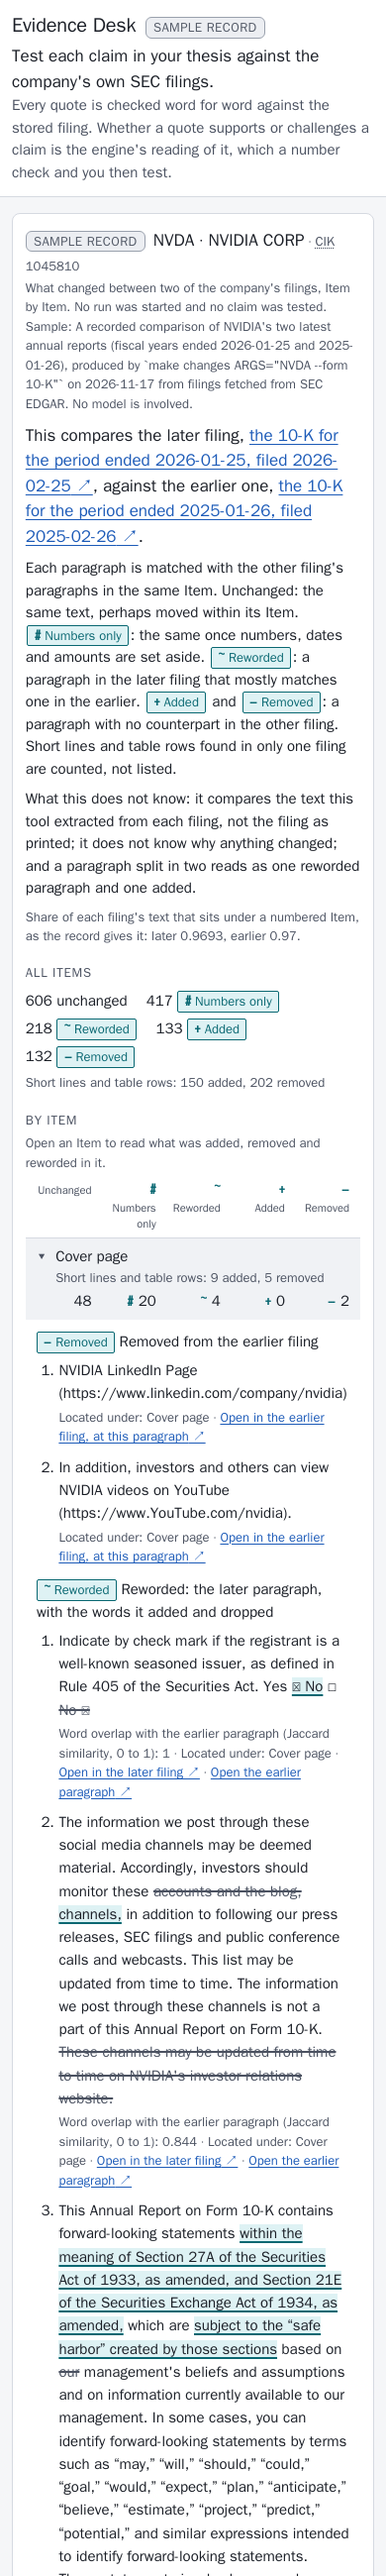
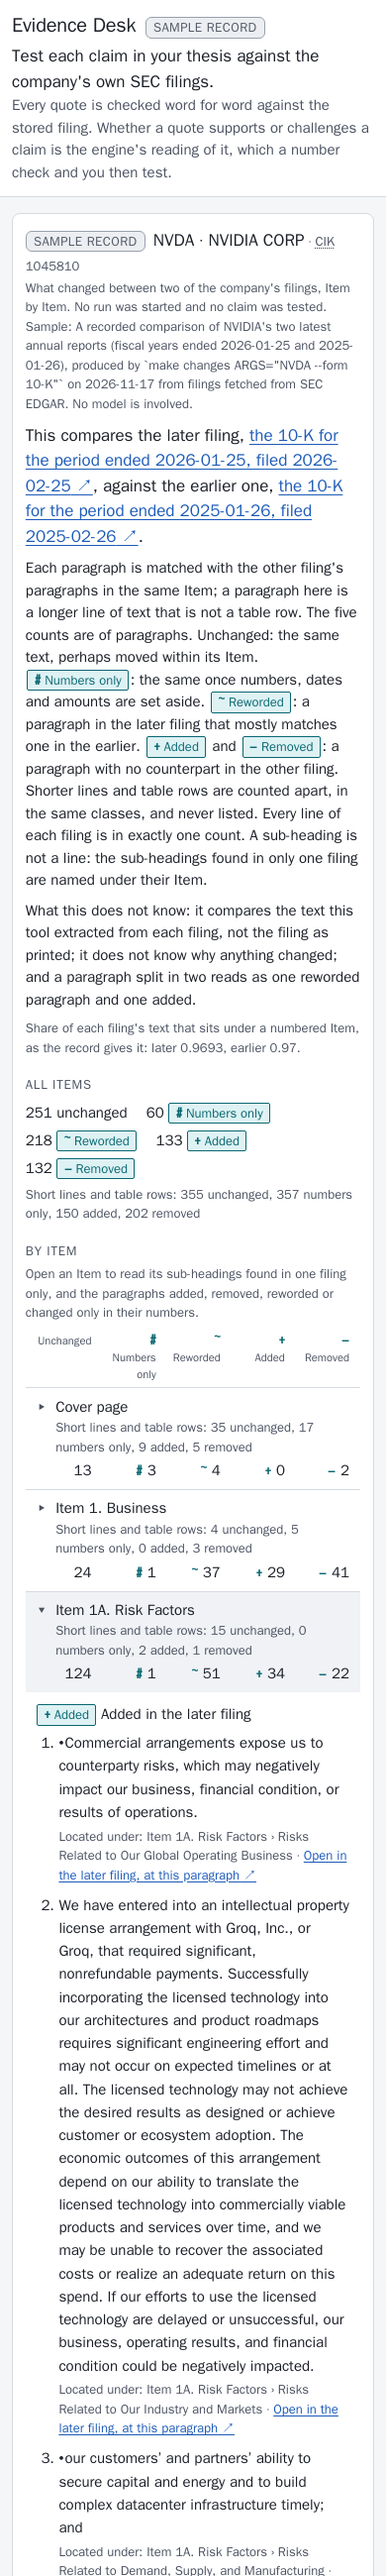
Show the corrected comparison on the page
All nine counts, each labelled as what it counts; the sub-headings found
in only one filing; a list of paragraphs whose figures alone moved, drawn
like the reworded ones; link words that say whether a link opens the
filing at the paragraph or only the filing. Item 1A opens first. At
phone width the column headings no longer break inside a word. 75
assertions on the rendered page.

Changed region(s): [[0.0615, 0.2181, 0.9231, 1.0]]

diff --git a/Capstone/evidence_desk/src/web/app.js b/Capstone/evidence_desk/src/web/app.js
@@ -968,7 +968,7 @@ function renderChanges(record, sampleNote) {
     h(
       "p",
       { class: "changes-explain" },
-      "Each paragraph is matched with the other filing's paragraphs in the same Item. Unchanged: the same text, perhaps moved within its Item. ",
+      "Each paragraph is matched with the other filing's paragraphs in the same Item; a paragraph here is a longer line of text that is not a table row. The five counts are of paragraphs. Unchanged: the same text, perhaps moved within its Item. ",
       changeMark("numbers_only"),
       ": the same once numbers, dates and amounts are set aside. ",
       changeMark("reworded"),
@@ -976,7 +976,7 @@ function renderChanges(record, sampleNote) {
       changeMark("added"),
       " and ",
       changeMark("removed"),
-      ": a paragraph with no counterpart in the other filing. Short lines and table rows found in only one filing are counted, not listed.",
+      ": a paragraph with no counterpart in the other filing. Shorter lines and table rows are counted apart, in the same classes, and never listed. Every line of each filing is in exactly one count. A sub-heading is not a line: the sub-headings found in only one filing are named under their Item.",
     ),
     h(
       "p",
@@ -1004,20 +1004,20 @@ function renderChanges(record, sampleNote) {
         { class: "chg-totals" },
         h("li", null, total("unchanged"), " unchanged"),
         ["numbers_only", "reworded", "added", "removed"].map((kind) => h("li", null, total(kind), " ", changeMark(kind))),
-        h("li", { class: "chg-minor" }, "Short lines and table rows: ", total("minor_added"), " added, ", total("minor_removed"), " removed"),
+        h("li", { class: "chg-minor" }, minorLine((field) => total(field))),
       ),
     ),
   );
   const items = record.items;
-  // The first Item that lists any paragraph starts open, so a reader sees one example of each list.
-  const listed = (item) => list(item.added_paragraphs).length + list(item.removed_paragraphs).length + list(item.reworded_paragraphs).length > 0;
-  const firstOpen = items.findIndex(listed);
+  // Item 1A starts open (the Item people read first); without it, the first Item that lists anything.
+  const riskFactors = items.findIndex((item) => str(item.item).startsWith("Item 1A"));
+  const firstOpen = riskFactors >= 0 ? riskFactors : items.findIndex(hasListed);
   parts.push(
     h(
       "section",
       { class: "block", "aria-labelledby": "chg-items-title" },
       h("h3", { class: "block-title", id: "chg-items-title", text: "By Item" }),
-      h("p", { class: "hint", text: "Open an Item to read what was added, removed and reworded in it." }),
+      h("p", { class: "hint", text: "Open an Item to read its sub-headings found in one filing only, and the paragraphs added, removed, reworded or changed only in their numbers." }),
       h(
         "div",
         { class: "chg-grid chg-header", "aria-hidden": "true" },
@@ -1031,7 +1031,7 @@ function renderChanges(record, sampleNote) {
   els.changesBody.replaceChildren(...parts);
 }
 
-/** One Item: its five counts as a row, opening to its three lists. */
+/** One Item: its five paragraph counts and four short-line counts as a row, opening to its lists. */
 function renderChangeItem(item, index, open = false) {
   const presence = { later: "Only in the later filing", earlier: "Only in the earlier filing" }[item.present_in] ?? "";
   const word = (field) => (field === "unchanged" ? "unchanged" : CHANGE_MARK[field][1].toLowerCase());
@@ -1051,35 +1051,74 @@ function renderChangeItem(item, index, open = false) {
       { class: "chg-name" },
       h("span", { class: "chg-item-title", text: str(item.item) }),
       presence ? h("span", { class: "chg-presence", "data-present-in": item.present_in, text: presence }) : "",
-      h(
-        "span",
-        { class: "chg-minor" },
-        "Short lines and table rows: ",
-        h("span", { "data-chg-field": "minor_added", text: num(item.minor_added) }),
-        " added, ",
-        h("span", { "data-chg-field": "minor_removed", text: num(item.minor_removed) }),
-        " removed",
-      ),
+      h("span", { class: "chg-minor" }, minorLine((field) => h("span", { "data-chg-field": field, text: num(item[field]) }))),
     ),
     CHANGE_COUNTS.map(cell),
   );
   return h("details", { class: "chg-item", "data-item-index": index, "data-item": str(item.item), open }, summary, renderChangeLists(item));
 }
 
-/** An Item's added, removed and reworded paragraphs, each list with its truncation as the record states it. */
+/** "Short lines and table rows: A unchanged, B numbers only, C added, D removed"; `count` draws each number. */
+function minorLine(count) {
+  return [
+    "Short lines and table rows: ",
+    count("minor_unchanged"),
+    " unchanged, ",
+    count("minor_numbers_only"),
+    " numbers only, ",
+    count("minor_added"),
+    " added, ",
+    count("minor_removed"),
+    " removed",
+  ];
+}
+
+/** Whether an Item lists anything: a paragraph, a pair, or a sub-heading in only one filing. */
+function hasListed(item) {
+  return ["added_paragraphs", "removed_paragraphs", "reworded_paragraphs", "numbers_only_paragraphs", "subheadings_added", "subheadings_removed"].some(
+    (key) => list(item[key]).length > 0,
+  );
+}
+
+/**
+ * The words on a link into one of the two filings, by the record's `link_kind`: at the
+ * paragraph, at its first line, or the filing only. A record without `link_kind` keeps
+ * "at this paragraph". The run view says the same of a quote (`LINK_WORDS`).
+ */
+function changeLinkWords(paragraph, side) {
+  const kind = str(paragraph?.link_kind);
+  if (kind === "first-line") return `Open in the ${side} filing, at its first line`;
+  if (kind === "document") return `Open the ${side} filing (the link opens the filing only: this text cannot be located in it)`;
+  return `Open in the ${side} filing, at this paragraph`;
+}
+
+/** An Item's sub-headings found in one filing only, then its four lists, each with its truncation as the record states it. */
 function renderChangeLists(item) {
   const body = h("div", { class: "chg-lists" });
+  if (!hasListed(item)) {
+    body.append(h("p", { class: "muted", text: "No paragraph or sub-heading was added, removed, reworded or changed in its numbers in this Item." }));
+    return body;
+  }
+  const subheadings = (kind, side, title, names) =>
+    h(
+      "section",
+      { class: "chg-list chg-subs", "data-subheadings": side },
+      h("h4", { class: "chg-list-title" }, changeMark(kind), ` ${title}`),
+      h("ul", { class: "chg-sub-list" }, names.map((name) => h("li", { text: String(name) }))),
+    );
+  const subsAdded = list(item.subheadings_added);
+  const subsRemoved = list(item.subheadings_removed);
+  if (subsAdded.length) body.append(subheadings("added", "later", "Sub-headings only in the later filing", subsAdded));
+  if (subsRemoved.length) body.append(subheadings("removed", "earlier", "Sub-headings only in the earlier filing", subsRemoved));
   const added = list(item.added_paragraphs);
   const removed = list(item.removed_paragraphs);
   const reworded = list(item.reworded_paragraphs);
-  if (!added.length && !removed.length && !reworded.length) {
-    body.append(h("p", { class: "muted", text: "No paragraph was added, removed or reworded in this Item." }));
-    return body;
-  }
+  const numbersOnly = list(item.numbers_only_paragraphs);
   const cut = item.truncated ?? {};
-  if (added.length) body.append(changeList("added", "Added in the later filing", added, item.added, cut.added, (p) => paragraphEntry(p, "Open in the later filing, at this paragraph")));
-  if (removed.length) body.append(changeList("removed", "Removed from the earlier filing", removed, item.removed, cut.removed, (p) => paragraphEntry(p, "Open in the earlier filing, at this paragraph")));
-  if (reworded.length) body.append(changeList("reworded", "Reworded: the later paragraph, with the words it added and dropped", reworded, item.reworded, cut.reworded, rewordedEntry));
+  if (added.length) body.append(changeList("added", "Added in the later filing", added, item.added, cut.added, (p) => paragraphEntry(p, "later")));
+  if (removed.length) body.append(changeList("removed", "Removed from the earlier filing", removed, item.removed, cut.removed, (p) => paragraphEntry(p, "earlier")));
+  if (reworded.length) body.append(changeList("reworded", "Reworded: the later paragraph, with the words it added and dropped", reworded, item.reworded, cut.reworded, (pair) => pairEntry(pair, true)));
+  if (numbersOnly.length) body.append(changeList("numbers_only", "Numbers only: the same words, the figures that moved", numbersOnly, item.numbers_only, cut.numbers_only, (pair) => pairEntry(pair, false)));
   return body;
 }
 
@@ -1098,18 +1137,28 @@ function changeList(kind, title, entries, count, truncated, draw) {
   );
 }
 
-/** An added or removed paragraph: its text, where it sits, and a link into its filing. */
-function paragraphEntry(paragraph, linkText) {
+/** An added or removed paragraph: its text, where it sits, and a link into its filing ("later" or "earlier"). */
+function paragraphEntry(paragraph, side) {
   return h(
     "li",
     null,
     h("p", { class: "chg-text", text: str(paragraph.text) }),
-    h("p", { class: "chg-where" }, h("span", { class: "label", text: "Located under: " }), str(paragraph.locator) || "location not recorded", " · ", externalLink(paragraph.link, linkText)),
+    h(
+      "p",
+      { class: "chg-where" },
+      h("span", { class: "label", text: "Located under: " }),
+      str(paragraph.locator) || "location not recorded",
+      " · ",
+      externalLink(paragraph.link, changeLinkWords(paragraph, side)),
+    ),
   );
 }
 
-/** A reworded pair: the later paragraph drawn from `segments`, in reading order, then the record's similarity. */
-function rewordedEntry(pair) {
+/**
+ * A reworded or numbers-only pair: the later paragraph drawn from `segments`, in reading
+ * order, then (for a reworded pair) the record's similarity, and links into both filings.
+ */
+function pairEntry(pair, withSimilarity) {
   const quote = h("blockquote", { class: "chg-reworded" });
   list(pair.segments).forEach((segment, position) => {
     if (position > 0) quote.append(" ");
@@ -1125,15 +1174,19 @@ function rewordedEntry(pair) {
     h(
       "p",
       { class: "chg-where" },
-      h("span", { class: "label", text: "Word overlap with the earlier paragraph (Jaccard similarity, 0 to 1): " }),
-      h("span", { "data-similarity": "", text: Number.isFinite(pair.similarity) ? String(pair.similarity) : "not recorded" }),
-      " · ",
+      withSimilarity
+        ? [
+            h("span", { class: "label", text: "Word overlap with the earlier paragraph (Jaccard similarity of the word sets, common words and figures left out, so 1 does not mean identical; 0 to 1): " }),
+            h("span", { "data-similarity": "", text: Number.isFinite(pair.similarity) ? String(pair.similarity) : "not recorded" }),
+            " · ",
+          ]
+        : "",
       h("span", { class: "label", text: "Located under: " }),
       str(pair.after?.locator) || "location not recorded",
       " · ",
-      externalLink(pair.after?.link, "Open in the later filing"),
+      externalLink(pair.after?.link, changeLinkWords(pair.after, "later")),
       " · ",
-      externalLink(pair.before?.link, "Open the earlier paragraph"),
+      externalLink(pair.before?.link, changeLinkWords(pair.before, "earlier")),
     ),
   );
 }

diff --git a/Capstone/evidence_desk/src/web/index.html b/Capstone/evidence_desk/src/web/index.html
@@ -149,10 +149,10 @@
         <details id="changes-legend" class="legend" open>
           <summary>How to read this comparison</summary>
           <dl class="legend-list">
-            <div><dt><span class="chg-mark c-numbers_only"><span class="glyph g-chg" aria-hidden="true">#</span><span class="chg-label">Numbers only</span></span></dt><dd>The same paragraph once numbers, dates and amounts are set aside: only those changed.</dd></div>
+            <div><dt><span class="chg-mark c-numbers_only"><span class="glyph g-chg" aria-hidden="true">#</span><span class="chg-label">Numbers only</span></span></dt><dd>The same paragraph once numbers, dates and amounts are set aside: only those changed. Its list strikes through the earlier figures and underlines the later ones.</dd></div>
             <div><dt><span class="chg-mark c-reworded"><span class="glyph g-chg" aria-hidden="true">~</span><span class="chg-label">Reworded</span></span></dt><dd>A paragraph in the later filing that mostly matches one in the earlier filing.</dd></div>
-            <div><dt><span class="chg-mark c-added"><span class="glyph g-chg" aria-hidden="true">+</span><span class="chg-label">Added</span></span></dt><dd>A paragraph in the later filing with no counterpart in the earlier one.</dd></div>
-            <div><dt><span class="chg-mark c-removed"><span class="glyph g-chg" aria-hidden="true">−</span><span class="chg-label">Removed</span></span></dt><dd>A paragraph in the earlier filing with no counterpart in the later one.</dd></div>
+            <div><dt><span class="chg-mark c-added"><span class="glyph g-chg" aria-hidden="true">+</span><span class="chg-label">Added</span></span></dt><dd>A paragraph in the later filing with no counterpart in the earlier one; under an Item, also a sub-heading found only in the later filing.</dd></div>
+            <div><dt><span class="chg-mark c-removed"><span class="glyph g-chg" aria-hidden="true">−</span><span class="chg-label">Removed</span></span></dt><dd>A paragraph in the earlier filing with no counterpart in the later one; under an Item, also a sub-heading found only in the earlier filing.</dd></div>
             <div><dt><ins class="seg seg-add">added words</ins></dt><dd>Inside a reworded paragraph: words only the later filing has, underlined.</dd></div>
             <div><dt><del class="seg seg-del">removed words</del></dt><dd>Inside a reworded paragraph: words only the earlier filing had, struck through where they stood.</dd></div>
             <div><dt><span class="mark-limit"><span class="glyph g-limit" aria-hidden="true">▲</span> Limit</span></dt><dd>Something limits this comparison.</dd></div>

diff --git a/Capstone/evidence_desk/src/web/styles.css b/Capstone/evidence_desk/src/web/styles.css
@@ -913,6 +913,8 @@ del.seg-del { text-decoration-line: line-through; text-decoration-color: var(--i
 
 .chg-totals { list-style: none; margin: 0; padding: 0; display: flex; flex-wrap: wrap; gap: 0.35rem 1.2rem; align-items: baseline; }
 .chg-totals li { white-space: nowrap; }
+/* The short-lines line is a sentence of four counts: it takes its own row and may wrap. */
+.chg-totals li.chg-minor { flex-basis: 100%; white-space: normal; }
 .chg-minor { font-size: var(--step--1); color: var(--ink-2); }
 
 .chg-grid {
@@ -944,6 +946,8 @@ del.seg-del { text-decoration-line: line-through; text-decoration-color: var(--i
 .chg-text, .chg-reworded { margin: 0; font-family: var(--font-quote); line-height: 1.55; }
 .chg-where { margin: 0.15rem 0 0; font-size: var(--step--1); color: var(--ink-2); }
 .chg-where .ext { font-weight: 600; }
+.chg-sub-list { margin: 0; padding-left: 1.4rem; }
+.chg-sub-list > li + li { margin-top: 0.15rem; }
 
 @media (max-width: 720px) {
   .chg-grid { grid-template-columns: repeat(5, minmax(0, 1fr)); }

diff --git a/Capstone/evidence_desk/uitests/test_changes_dom.py b/Capstone/evidence_desk/uitests/test_changes_dom.py
@@ -28,9 +28,17 @@ CHANGE_GLYPHS = {"numbers_only": "#", "reworded": "~", "added": "+", "removed": 
 CHANGE_LABELS = {"numbers_only": "Numbers only", "reworded": "Reworded", "added": "Added", "removed": "Removed"}
 # Every mark the run pages already use: the change family must take none of them.
 OTHER_GLYPHS = {"✓", "✕", "±", "?", "∅", "•", "▲", "✎", "◎", "◐", "!", "▣", "☒", "☐"}
+# The five paragraph counts, then the four for short lines and table rows: every line of each
+# filing is in exactly one of them.
 COUNTS = ("unchanged", "numbers_only", "reworded", "added", "removed")
-MINOR = ("minor_added", "minor_removed")
-LISTS = {"added": "added_paragraphs", "removed": "removed_paragraphs", "reworded": "reworded_paragraphs"}
+MINOR = ("minor_unchanged", "minor_numbers_only", "minor_added", "minor_removed")
+LISTS = {
+    "added": "added_paragraphs",
+    "removed": "removed_paragraphs",
+    "reworded": "reworded_paragraphs",
+    "numbers_only": "numbers_only_paragraphs",
+}
+SUBHEADINGS = {"later": ("subheadings_added", "added"), "earlier": ("subheadings_removed", "removed")}
 PLACEHOLDERS = ("undefined", "NaN", "[object Object]", "null")
 
 
@@ -102,6 +110,9 @@ def test_the_message_comes_first_and_names_both_filings() -> None:
     body = text(soup.select_one("#changes-body"))
     assert body.index(text(lead)) < body.index("All Items"), "the totals come after the message"
     assert "does not know why anything changed" in words(soup.select_one("#changes-body .changes-unknown"))
+    explained = words(soup.select_one("#changes-body .changes-explain"))
+    for phrase in ("The five counts are of paragraphs", "counted apart", "never listed", "exactly one count", "A sub-heading is not a line"):
+        assert phrase in explained, f"the explanation does not say {phrase!r}"
     head = soup.select_one("#changes-head")
     assert head.select_one(".page-tag") is not None and "Sample record" in text(head.select_one(".page-tag"))
     assert sample()["note"] in words(head)
@@ -158,17 +169,103 @@ def test_a_reworded_paragraph_marks_added_and_removed_words() -> None:
         pytest.fail("the record has no reworded paragraph with both added and removed words")
     pair = pairs[position]
     entries = row.select('.chg-list[data-list="reworded"] ol.chg-paras > li')
-    quote = entries[position].select_one("blockquote.chg-reworded")
-    assert quote is not None
+    assert_segments(entries[position], pair)
+    similarity = entries[position].select_one("[data-similarity]")
+    assert similarity is not None and float(text(similarity)) == pair["similarity"]
+    assert "underline" in rule_body("ins.seg-add") and "line-through" in rule_body("del.seg-del")
+
+
+def assert_segments(entry: Tag, pair: dict[str, Any]) -> None:
+    """The entry draws the pair's segments in reading order, added words in <ins>, removed in <del>."""
+    quote = entry.select_one("blockquote.chg-reworded")
+    assert quote is not None, "the pair is not drawn from its segments"
     added = [visible_text(node) for node in quote.select("ins.seg-add")]
     removed = [visible_text(node) for node in quote.select("del.seg-del")]
     assert added == [s["text"] for s in pair["segments"] if s["kind"] == "added"]
     assert removed == [s["text"] for s in pair["segments"] if s["kind"] == "removed"]
     assert not quote.select("ins.seg-del, del.seg-add"), "an added word marked as removed, or the reverse"
     assert visible_text(quote) == " ".join(s["text"] for s in pair["segments"]), "segments out of reading order"
-    similarity = entries[position].select_one("[data-similarity]")
-    assert similarity is not None and float(text(similarity)) == pair["similarity"]
-    assert "underline" in rule_body("ins.seg-add") and "line-through" in rule_body("del.seg-del")
+
+
+def test_a_numbers_only_pair_marks_the_figures_that_moved() -> None:
+    for item, row in zip(record()["items"], rows(), strict=True):
+        pairs = item["numbers_only_paragraphs"]
+        position = next((i for i, p in enumerate(pairs) if {"added", "removed"} <= {s["kind"] for s in p["segments"]}), None)
+        if position is not None:
+            break
+    else:
+        pytest.fail("the record has no numbers-only pair with both added and removed figures")
+    section = row.select_one('.chg-list[data-list="numbers_only"]')
+    assert section is not None, f"{item['item']}: no numbers-only list"
+    title = section.select_one(".chg-list-title")
+    assert text(title.select_one(".chg-mark.c-numbers_only .g-chg")) == CHANGE_GLYPHS["numbers_only"]
+    assert "Numbers only: the same words, the figures that moved" in words(title)
+    entry = section.select("ol.chg-paras > li")[position]
+    assert_segments(entry, pairs[position])
+    assert entry.select_one("[data-similarity]") is None, "a numbers-only pair shows a similarity"
+    hrefs = [a["href"] for a in entry.select("a.ext")]
+    assert hrefs == [pairs[position]["after"]["link"], pairs[position]["before"]["link"]], "both links, later then earlier"
+
+
+@pytest.mark.parametrize("side", list(SUBHEADINGS))
+def test_subheadings_in_one_filing_only_are_named_under_their_item(side: str) -> None:
+    key, kind = SUBHEADINGS[side]
+    for item, row in zip(record()["items"], rows(), strict=True):
+        section = row.select_one(f'[data-subheadings="{side}"]')
+        if not item[key]:
+            assert section is None, f"{item['item']}: an empty {side} sub-heading list is shown"
+            continue
+        assert section is not None, f"{item['item']}: the {side} sub-headings are not named"
+        assert text(section.select_one(".chg-mark .g-chg")) == CHANGE_GLYPHS[kind], f"{item['item']}: not the {kind} mark"
+        assert [text(li) for li in section.select("li")] == item[key], item["item"]
+        lists = row.select(".chg-lists > section")
+        assert lists.index(section) < len(lists) - sum(bool(item[k]) for k in LISTS.values()), "sub-headings come first"
+
+
+def test_item_1_business_names_its_seven_removed_subheadings() -> None:
+    row, item = row_and_item("Item 1. ")
+    names = item["subheadings_removed"]
+    assert len(names) == 7, "the sample's Item 1 has seven sub-headings only in the earlier filing"
+    section = row.select_one('[data-subheadings="earlier"]')
+    assert section is not None and [text(li) for li in section.select("li")] == names
+
+
+def link_entries() -> list[tuple[dict[str, Any], str, Tag]]:
+    """Every paragraph link in the view with the record's paragraph it opens: (paragraph, side, <a>)."""
+    found = []
+    for item, row in zip(record()["items"], rows(), strict=True):
+        for kind, side in (("added", "later"), ("removed", "earlier")):
+            entries = row.select(f'.chg-list[data-list="{kind}"] ol.chg-paras > li')
+            for paragraph, entry in zip(item[LISTS[kind]], entries, strict=True):
+                found.append((paragraph, side, entry.select_one("a.ext")))
+        for kind in ("reworded", "numbers_only"):
+            entries = row.select(f'.chg-list[data-list="{kind}"] ol.chg-paras > li')
+            for pair, entry in zip(item[LISTS[kind]], entries, strict=True):
+                later_link, earlier_link = entry.select("a.ext")
+                found += [(pair["after"], "later", later_link), (pair["before"], "earlier", earlier_link)]
+    return found
+
+
+def test_link_words_say_what_each_link_opens() -> None:
+    seen = set()
+    for paragraph, side, link in link_entries():
+        assert link is not None and link["href"] == paragraph["link"]
+        said = str(link.contents[0])
+        kind = paragraph.get("link_kind") or ""
+        seen.add(kind)
+        assert f"the {side} filing" in said, f"{said!r} does not name the {side} filing"
+        if kind == "document":
+            assert "at this paragraph" not in said and "cannot be located" in said, said
+        elif kind == "first-line":
+            assert "at its first line" in said, said
+        else:
+            assert "at this paragraph" in said, said
+    assert {"document", "passage"} <= seen, "the sample needs both a document link and a passage link"
+
+
+def test_item_1a_starts_open() -> None:
+    opened = [row["data-item"] for row in rows() if row.has_attr("open")]
+    assert len(opened) == 1 and opened[0].startswith("Item 1A"), opened
 
 
 def test_truncated_lists_say_how_many_they_show() -> None:
